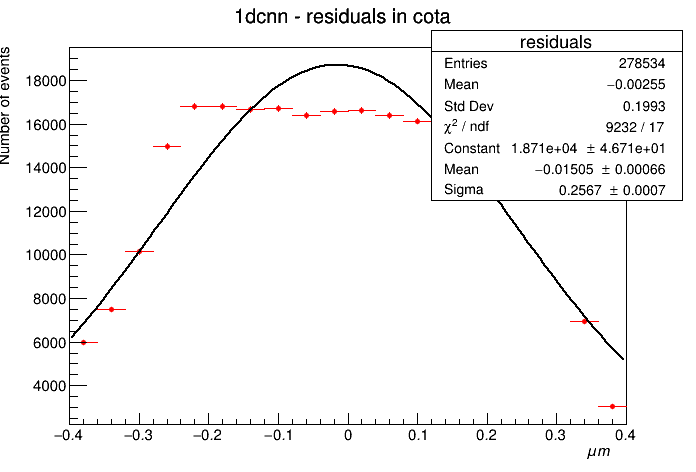
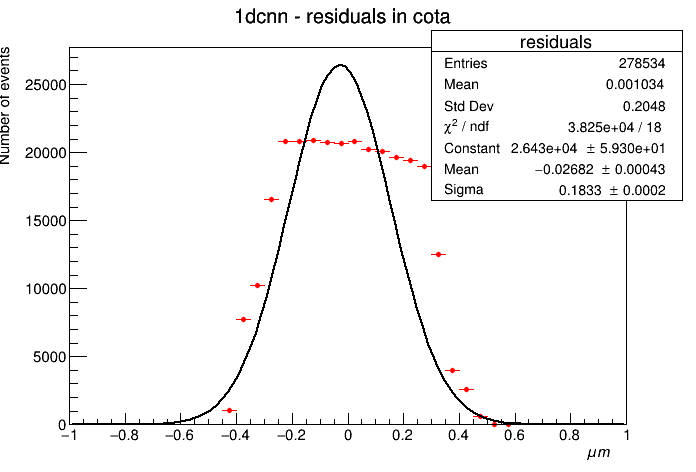
fixed residual legends

diff --git a/code/find_cotb_1dcnn.py b/code/find_cotb_1dcnn.py
@@ -106,10 +106,10 @@ inputs_y_train = np.hstack((ypix_flat_train,cota_train,cotb_train))[:,:,np.newax
 angles_train = np.hstack((cota_train,cotb_train))
 f.close()
 '''
-print(np.amin(cota_train),np.amax(cota_train))
-print(np.amin(cota_test),np.amax(cota_test))
-plot_cot(cota_train,"cota_train",img_ext)
-plot_cot(cota_test,"cota_test",img_ext)
+print(np.amin(cotb_train),np.amax(cotb_train))
+print(np.amin(cotb_test),np.amax(cotb_test))
+plot_cot(cotb_train,"cotb_train",img_ext)
+plot_cot(cotb_test,"cotb_test",img_ext)
 #print(xpix_flat_test[:30])
 #print(ypix_flat_test[:30])
 #print("clustersize of 1: ",len(np.argwhere(clustersize_y_train==1)))

diff --git a/code/find_cota_1dcnn.py b/code/find_cota_1dcnn.py
@@ -111,10 +111,13 @@ f.close()
 #print(xpix_flat_test[:30])
 #print(ypix_flat_test[:30])
 #print("clustersize of 1: ",len(np.argwhere(clustersize_x_train==1)))
-for i in range(50):
+#for i in range(50):
 #	if clustersize_x_train[i]==1:
-	print(xpix_flat_train[i])
-	
+#	print(xpix_flat_train[i])
+print(np.amin(cota_train),np.amax(cota_train))
+print(np.amin(cota_test),np.amax(cota_test))
+plot_cot(cota_train,"cota_train",img_ext)
+plot_cot(cota_test,"cota_test",img_ext)	
 '''
 norm_x = np.amax(xpix_flat_train)
 xpix_flat_train/=norm_x

diff --git a/code/plotter.py b/code/plotter.py
@@ -40,7 +40,7 @@ def plot_dnn_loss(history,label,img_ext):
 
 def plot_residuals(residuals,algo,label,img_ext):
 
-	res = ROOT.TH1F("residuals","%s %s"%(algo,label),40,-10,10)
+	res = ROOT.TH1F("residuals","%s %s"%(algo,label),40,-1,1)
 	res.Sumw2() # statistical uncertainties to be calculated using the sum of weights squared
 	'''
 	Once the histogram has been filled, we want to make sure that it doesnt disappear. By default, histograms
